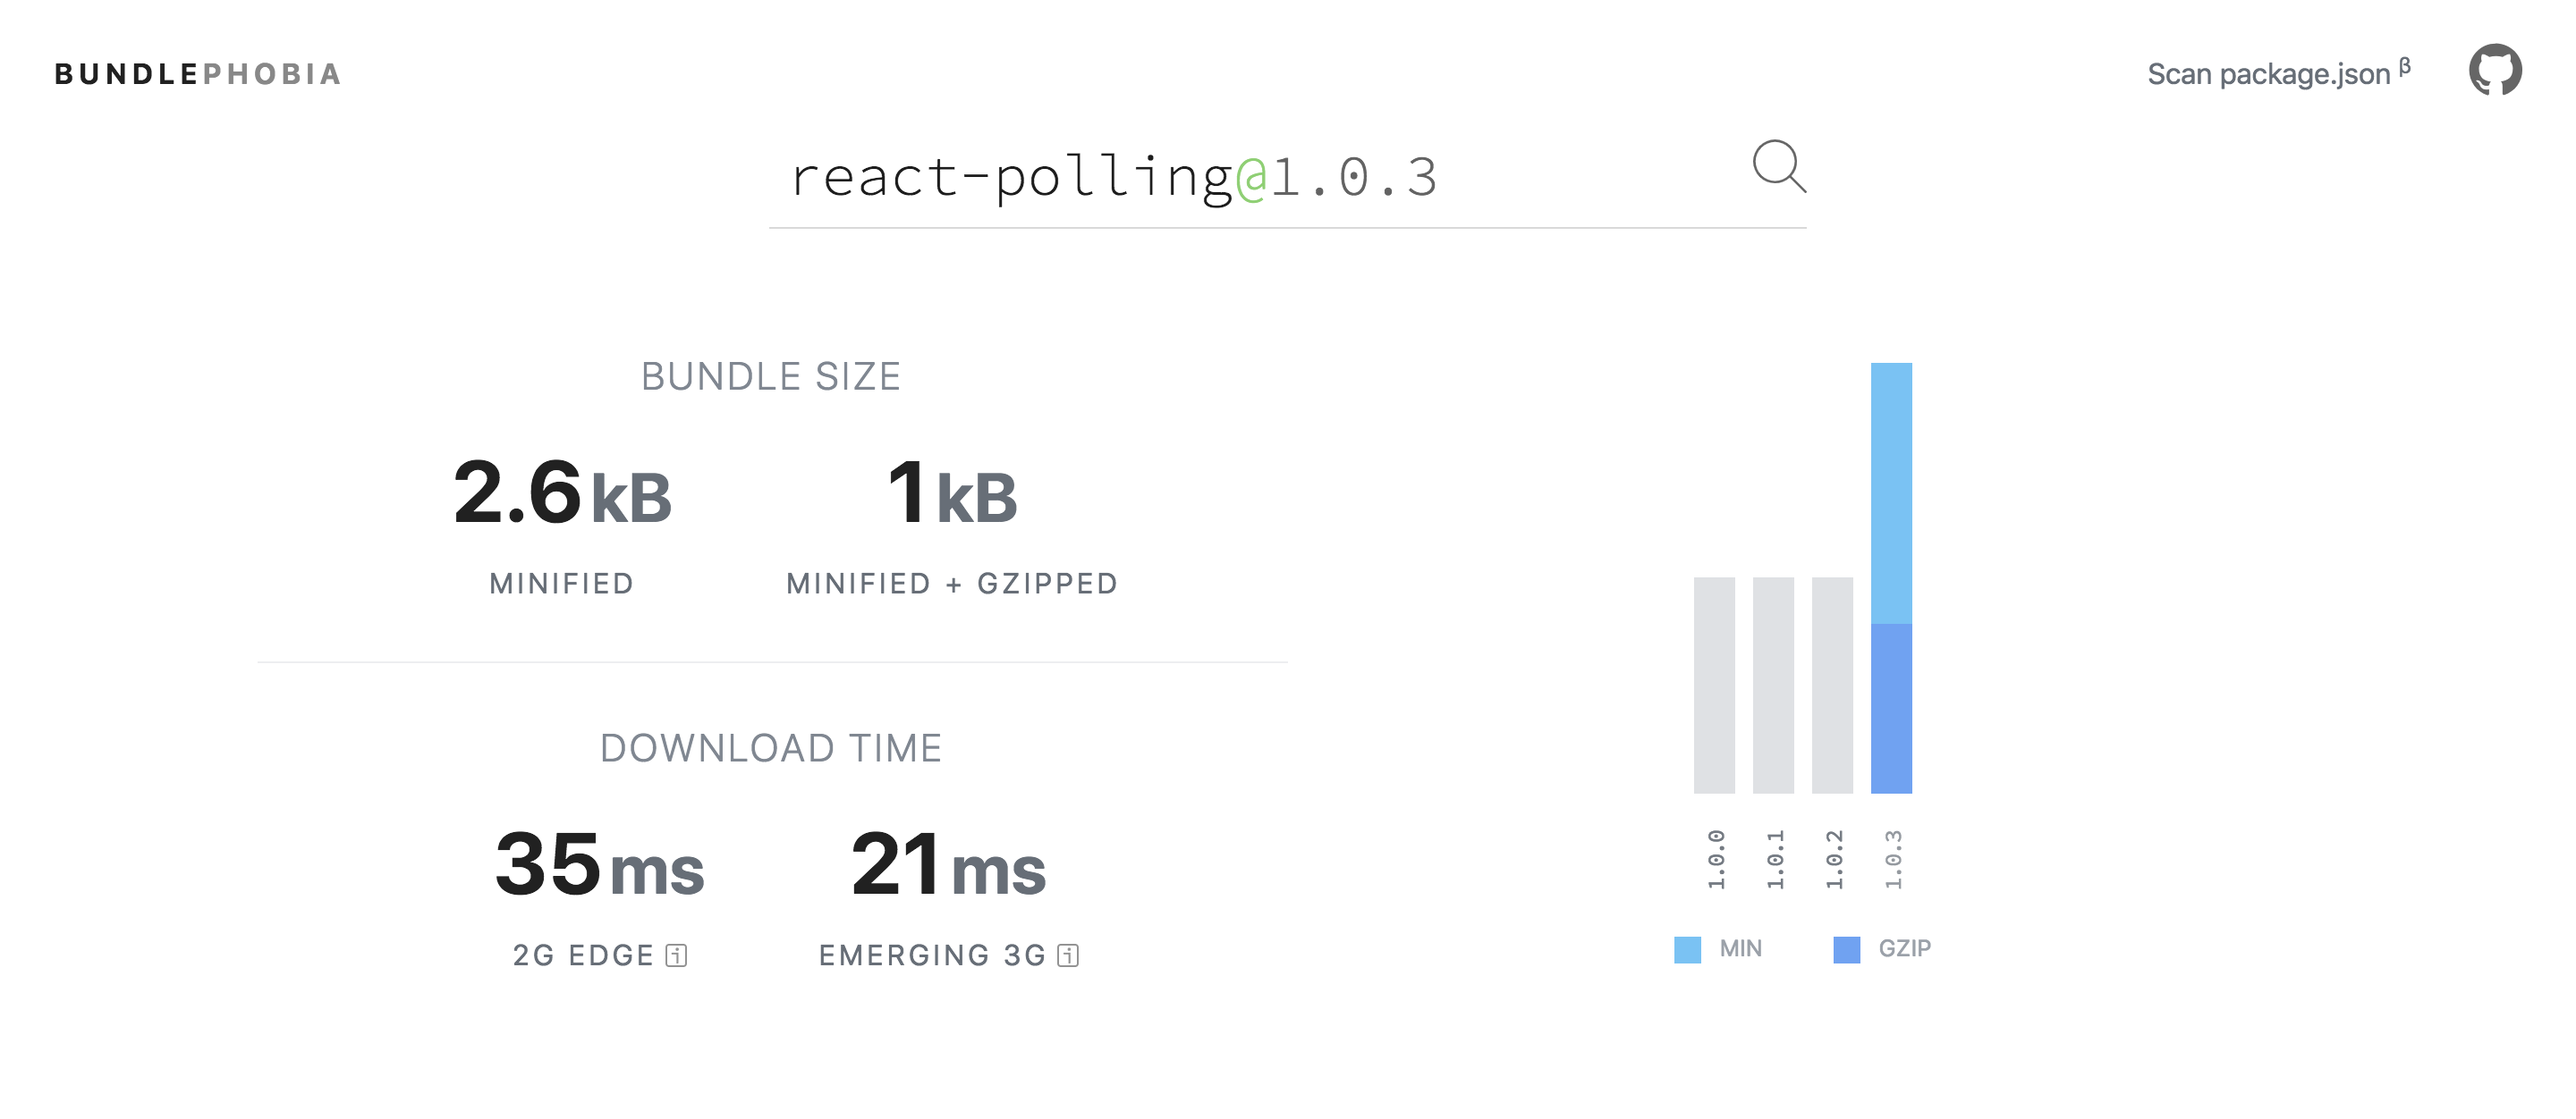
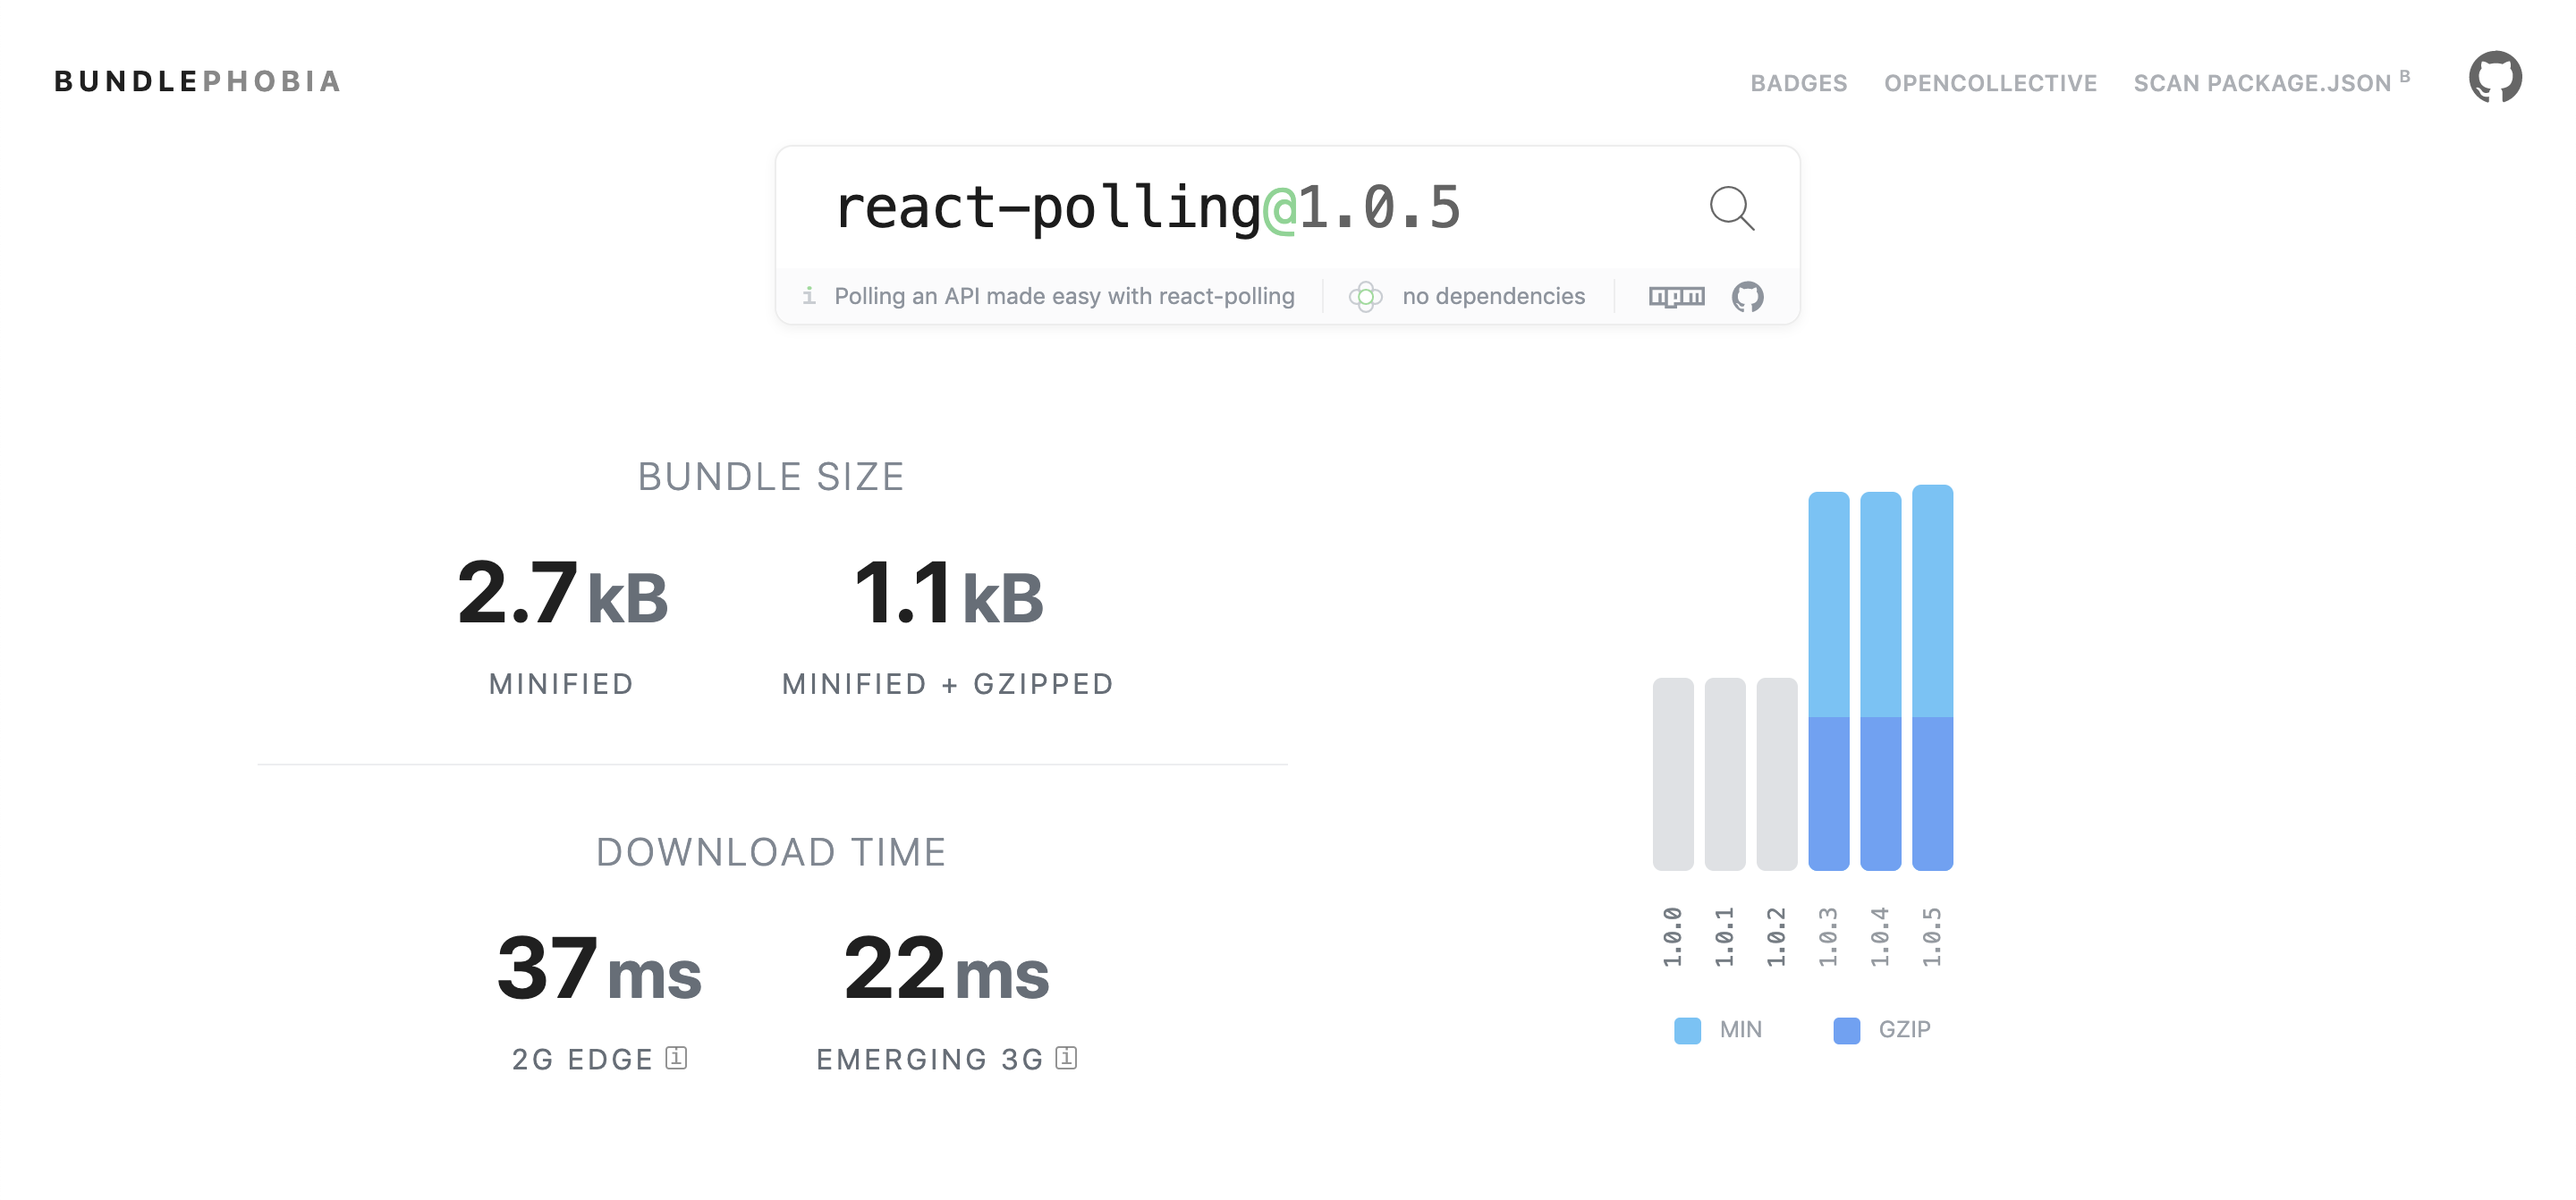
:recycle: updated readme, new size stats added, dist folder updated

diff --git a/dist/ReactPolling.js b/dist/ReactPolling.js
@@ -1,2 +1,2 @@
-!function(t,n){"object"==typeof exports&&"object"==typeof module?module.exports=n(require("prop-types"),require("react")):"function"==typeof define&&define.amd?define(["prop-types","react"],n):"object"==typeof exports?exports.ReactPolling=n(require("prop-types"),require("react")):t.ReactPolling=n(t["prop-types"],t.react)}(window,function(t,n){return function(t){var n={};function e(o){if(n[o])return n[o].exports;var r=n[o]={i:o,l:!1,exports:{}};return t[o].call(r.exports,r,r.exports,e),r.l=!0,r.exports}return e.m=t,e.c=n,e.d=function(t,n,o){e.o(t,n)||Object.defineProperty(t,n,{enumerable:!0,get:o})},e.r=function(t){"undefined"!=typeof Symbol&&Symbol.toStringTag&&Object.defineProperty(t,Symbol.toStringTag,{value:"Module"}),Object.defineProperty(t,"__esModule",{value:!0})},e.t=function(t,n){if(1&n&&(t=e(t)),8&n)return t;if(4&n&&"object"==typeof t&&t&&t.__esModule)return t;var o=Object.create(null);if(e.r(o),Object.defineProperty(o,"default",{enumerable:!0,value:t}),2&n&&"string"!=typeof t)for(var r in t)e.d(o,r,function(n){return t[n]}.bind(null,r));return o},e.n=function(t){var n=t&&t.__esModule?function(){return t.default}:function(){return t};return e.d(n,"a",n),n},e.o=function(t,n){return Object.prototype.hasOwnProperty.call(t,n)},e.p="",e(e.s=2)}([function(n,e){n.exports=t},function(t,e){t.exports=n},function(t,n,e){"use strict";e.r(n);var o=e(1),r=e.n(o),i=e(0),l=e.n(i);var u=function(t){function n(n){var e;return(e=t.call(this,n)||this).state={isPolling:!1},e.initConfig(n),e}!function(t,n){t.prototype=Object.create(n.prototype),t.prototype.constructor=t,t.__proto__=n}(n,t);var e=n.prototype;return e.initConfig=function(t){var n=t.url,e=t.interval,o=t.retryCount,r=t.onSuccess,i=t.onFailure,l=function(t,n){if(null==t)return{};var e,o,r={},i=Object.keys(t);for(o=0;o<i.length;o++)e=i[o],n.indexOf(e)>=0||(r[e]=t[e]);return r}(t,["url","interval","retryCount","onSuccess","onFailure"]);e=Number(e),o=Number(o),this.config={url:n,interval:e,shouldRetry:!!o,retryCount:o,onSuccess:r,onFailure:i,api:l}},e.stopPolling=function(){if(this._ismounted){this.poll&&(clearTimeout(this.poll),this.poll=null),this.setState({isPolling:!1})}},e.startPolling=function(){if(!this.config.url)throw new Error("No url provided to poll. Please provide a config object with the url param set");this.setState({isPolling:!0}),this.runPolling()},e.runPolling=function(){var t=this.config,n=t.url,e=t.interval,o=t.onSuccess,r=t.onFailure,i=t.api,l=this;this.poll=setTimeout(function(){fetch(n,i).then(function(t){return t.json().then(function(n){return t.ok?n:Promise.reject({status:t.status,data:n})})}).then(o).then(function(t){l.state.isPolling&&t?l.runPolling():l.stopPolling()}).catch(function(t){l.config.shouldRetry&&l.config.retryCount>0?(r&&r(t),l.config.retryCount--,l.runPolling()):(r&&r(t),l.stopPolling())})},e)},e.componentDidMount=function(){this._ismounted=!0,this.startPolling()},e.render=function(){return this.props.render?this.props.render({startPolling:this.startPolling,stopPolling:this.stopPolling,isPolling:this.state.isPolling}):this.props.children({startPolling:this.startPolling,stopPolling:this.stopPolling,isPolling:this.state.isPolling})},e.componentWillUnmount=function(){this.stopPolling(),this._ismounted=!1},n}(r.a.Component);u.propTypes={url:l.a.string,interval:l.a.number,retryCount:l.a.number,onSuccess:l.a.func.isRequired,onFailure:l.a.func,headers:l.a.object,method:l.a.string,body:l.a.object,render:l.a.func,children:l.a.func},u.defaultProps={interval:3e3,retryCount:0,onFailure:function(){},method:"GET"};var s=u;n.default=s}])});
+!function(t,n){"object"==typeof exports&&"object"==typeof module?module.exports=n(require("prop-types"),require("react")):"function"==typeof define&&define.amd?define(["prop-types","react"],n):"object"==typeof exports?exports.ReactPolling=n(require("prop-types"),require("react")):t.ReactPolling=n(t["prop-types"],t.react)}(window,function(t,n){return function(t){var n={};function e(o){if(n[o])return n[o].exports;var r=n[o]={i:o,l:!1,exports:{}};return t[o].call(r.exports,r,r.exports,e),r.l=!0,r.exports}return e.m=t,e.c=n,e.d=function(t,n,o){e.o(t,n)||Object.defineProperty(t,n,{enumerable:!0,get:o})},e.r=function(t){"undefined"!=typeof Symbol&&Symbol.toStringTag&&Object.defineProperty(t,Symbol.toStringTag,{value:"Module"}),Object.defineProperty(t,"__esModule",{value:!0})},e.t=function(t,n){if(1&n&&(t=e(t)),8&n)return t;if(4&n&&"object"==typeof t&&t&&t.__esModule)return t;var o=Object.create(null);if(e.r(o),Object.defineProperty(o,"default",{enumerable:!0,value:t}),2&n&&"string"!=typeof t)for(var r in t)e.d(o,r,function(n){return t[n]}.bind(null,r));return o},e.n=function(t){var n=t&&t.__esModule?function(){return t.default}:function(){return t};return e.d(n,"a",n),n},e.o=function(t,n){return Object.prototype.hasOwnProperty.call(t,n)},e.p="",e(e.s=2)}([function(n,e){n.exports=t},function(t,e){t.exports=n},function(t,n,e){"use strict";e.r(n);var o=e(1),r=e.n(o),i=e(0),l=e.n(i);var u=function(t){function n(n){var e;return(e=t.call(this,n)||this).state={isPolling:!1},e.initConfig(n),e}!function(t,n){t.prototype=Object.create(n.prototype),t.prototype.constructor=t,t.__proto__=n}(n,t);var e=n.prototype;return e.initConfig=function(t){var n=t.url,e=t.interval,o=t.retryCount,r=t.onSuccess,i=t.onFailure,l=function(t,n){if(null==t)return{};var e,o,r={},i=Object.keys(t);for(o=0;o<i.length;o++)e=i[o],n.indexOf(e)>=0||(r[e]=t[e]);return r}(t,["url","interval","retryCount","onSuccess","onFailure"]);e=Number(e),o=Number(o),this.config={url:n,interval:e,shouldRetry:!!o,retryCount:o,onSuccess:r,onFailure:i,api:l}},e.stopPolling=function(){if(this._ismounted){this.poll&&(clearTimeout(this.poll),this.poll=null),this.setState({isPolling:!1})}},e.startPolling=function(){if(!this.config.url)throw new Error("No url provided to poll. Please provide a config object with the url param set");this.setState({isPolling:!0}),this.runPolling()},e.runPolling=function(){var t=this.config,n=t.url,e=t.interval,o=t.onSuccess,r=t.onFailure,i=t.api,l=this;this.poll=setTimeout(function(){fetch(n,i).then(function(t){return t.json().then(function(n){return t.ok?n:Promise.reject({status:t.status,data:n})})}).then(o).then(function(t){l.state.isPolling&&t?l.runPolling():l.stopPolling()}).catch(function(t){l.config.shouldRetry&&l.config.retryCount>0?(r&&r(t),l.config.retryCount--,l.runPolling()):(r&&r(t),l.stopPolling())})},e)},e.componentDidMount=function(){this._ismounted=!0,this.startPolling()},e.render=function(){return this.props.render?this.props.render({startPolling:this.startPolling.bind(this),stopPolling:this.stopPolling.bind(this),isPolling:this.state.isPolling}):this.props.children({startPolling:this.startPolling.bind(this),stopPolling:this.stopPolling.bind(this),isPolling:this.state.isPolling})},e.componentWillUnmount=function(){this.stopPolling(),this._ismounted=!1},n}(r.a.Component);u.propTypes={url:l.a.string,interval:l.a.number,retryCount:l.a.number,onSuccess:l.a.func.isRequired,onFailure:l.a.func,headers:l.a.object,method:l.a.string,body:l.a.object,render:l.a.func,children:l.a.func},u.defaultProps={interval:3e3,retryCount:0,onFailure:function(){},method:"GET"};var s=u;n.default=s}])});
 //# sourceMappingURL=ReactPolling.js.map

diff --git a/README.md b/README.md
@@ -92,7 +92,7 @@ function onFailure(error) {
 
 ## 📦 Size
 
-<img src='./size.png' />
+<img src='./size1.png' />
 
 ## 👍 Contribute
 
